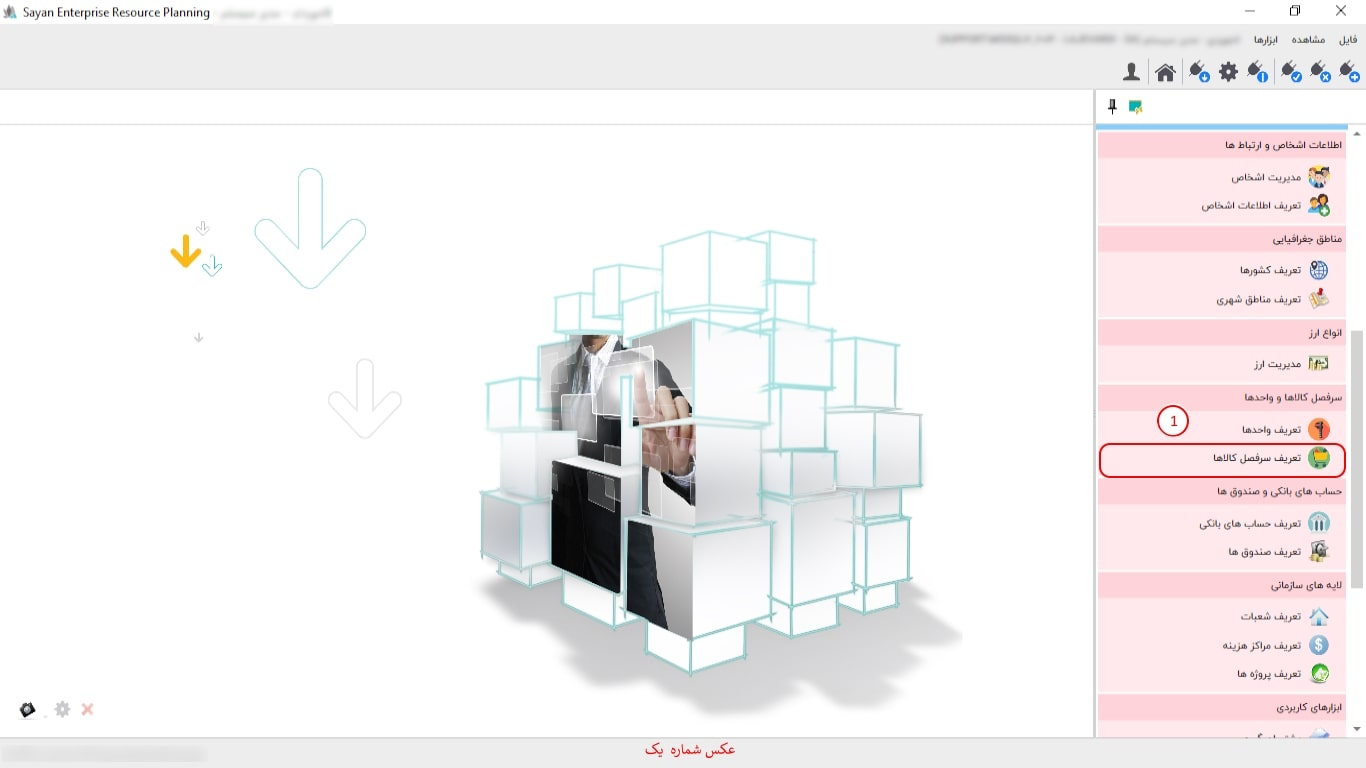
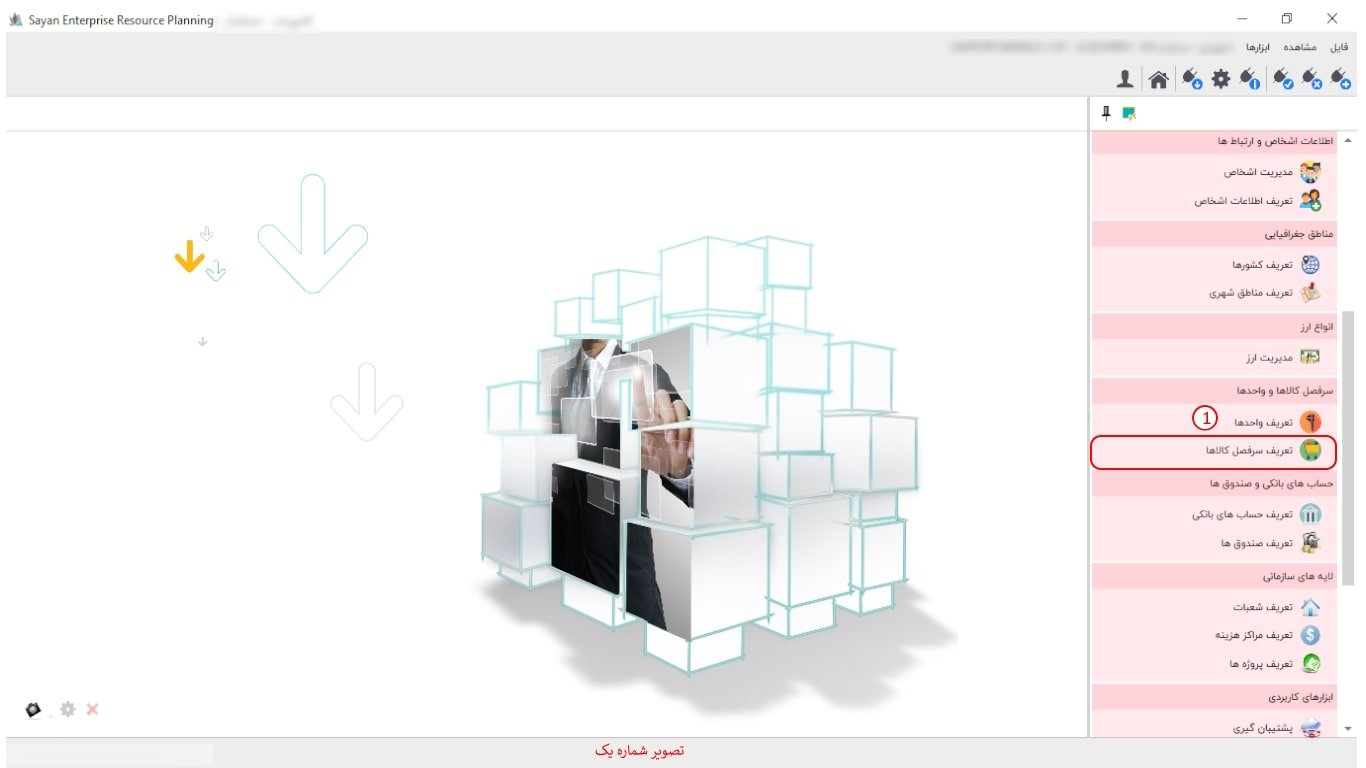
ایجاد عکس

diff --git a/Help/fa-IR/_18_اطلاعات پایه و مشترک/_07_تعریف سرفصل کالاها/Index.html b/Help/fa-IR/_18_اطلاعات پایه و مشترک/_07_تعریف سرفصل کالاها/Index.html
@@ -28,14 +28,14 @@
 	-کادر شماره دوم:	
 	</p>
 	<p> 	
-برای ادامه مطلب به عکس شماره سوم مراجعه نمایید.
+برای ادامه مطلب به تصویر شماره سه مراجعه نمایید.
 	</p>
 	<img class="FitPic" src="l3.jpg" />		 
 	<p> 		 
 -کادر شماره یک:
 	</p>	
 	<p>
-		  برای ادامه مطلب به عکس شماره چهارم مراجعه نمایید. 
+		  برای ادامه مطلب به تصویر شماره چهار مراجعه نمایید. 
 	</p>
 	<img class="FitPic" src="l4.jpg" />
 	<p>
@@ -57,13 +57,13 @@
 		-وضعیت (کتدر شماره ششم):
 	</p>
 	<p>
-		برای ادامه مطلب به عکس شماره پنجم مراجعه نمایید.
+		برای ادامه مطلب به تصویر شماره پنج مراجعه نمایید.
 	</p>
 	<p>
 	-کادر شماره یک:
 	</p>
 	<p>
-		برای ادامه مطلب به عکس شماره ششم مراجعه نمایید.
+		برای ادامه مطلب به تصویر شماره شش مراجعه نمایید.
 	</p>
 	<img class="FitPic" src="l6.jpg" />
 	<p>
@@ -75,14 +75,14 @@
 		-نام گروه (کادر شماره سوم):
 	</p>
 	<p>
-برای ادامه مطلب به عکس شماره هفتم مراجعه نمایید.
+برای ادامه مطلب به تصویر شماره هفت مراجعه نمایید.
 	</p>
 	<img class="FitPic" src="l7.jpg" />
 	<p>
 		-کادر شماره یک:
 	</p>
 	<p>
-		برای ادامه مطلب به عکس شماره هشتم مراجعه نمایید.
+		برای ادامه مطلب به تصویر شماره هشت مراجعه نمایید.
 	</p>
 	<img class="FitPic" src="l8.jpg" />
 	<p>
@@ -95,7 +95,7 @@
 	-عنوان(کادر شماره سوم):
 	</p>
 	<p>
-		   برای ادامه مطلب به عکس شماره نهم مراجعه نمایید. 
+		   برای ادامه مطلب به تصویر  شماره نه مراجعه نمایید. 
 	</p>
 	<img class="FitPic" src="l9.jpg" />
 	<p>
@@ -115,7 +115,7 @@
 		-کادر شماره سوم:
 	</p>
 	<p>
-		برای ادامه مطلب به عکس شماره دهم مراجعه نمایید.
+		برای ادامه مطلب به تصویر شماره ده مراجعه نمایید.
 	</p>
 	<img class="FitPic" src="l11.jpg" />
 	<p>
